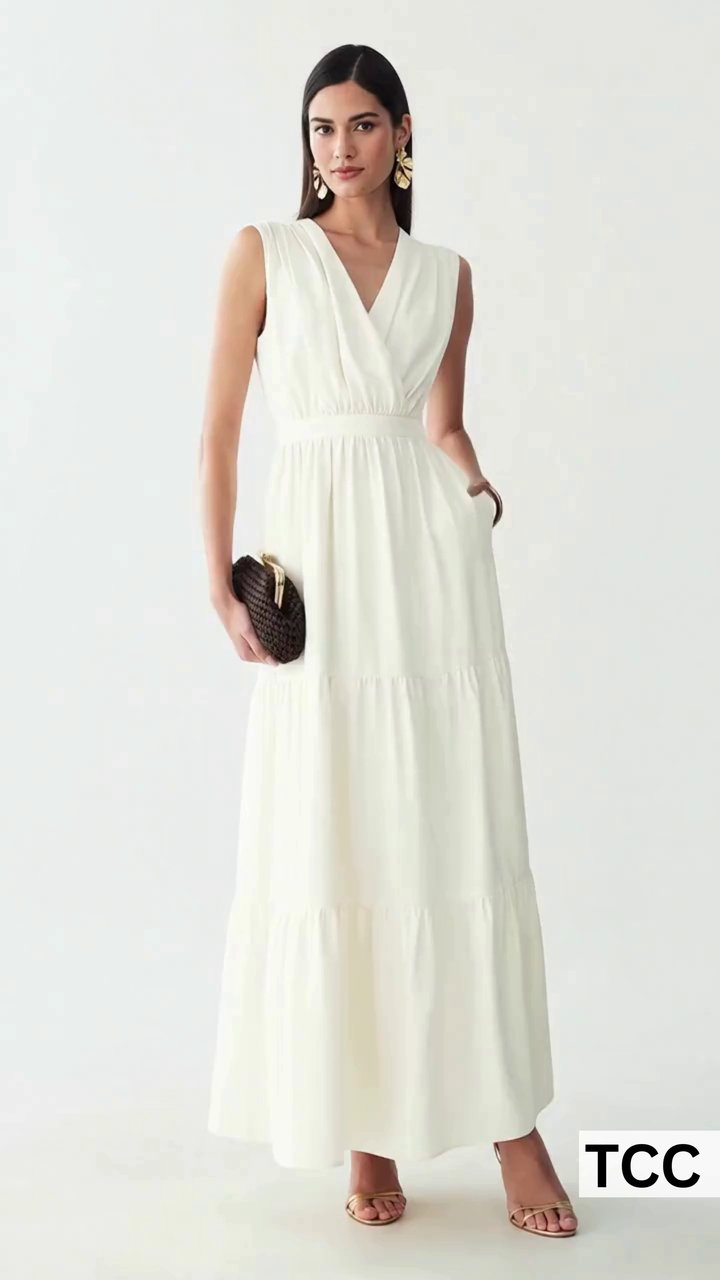
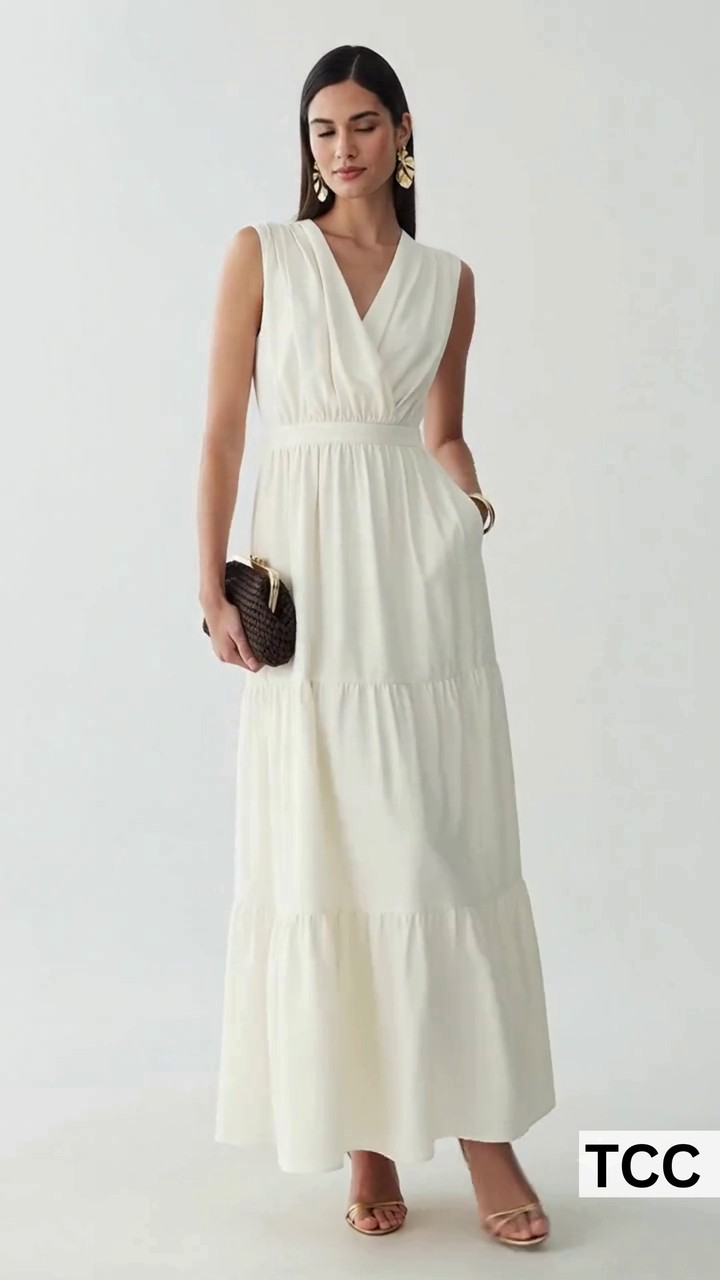
Add cache-busting and dress poster to prevent old image flash before video plays

Changed region(s): [[0.275, 0.0312, 0.825, 1.0], [0.275, 0.8125, 0.3056, 0.875]]

diff --git a/front-page.php b/front-page.php
@@ -1455,13 +1455,16 @@ body.has-floating-hero-video #tcc-floating-to-top {
         <?php
         $hero_video_url    = get_theme_mod( 'tcc_hero_video_url', '' );
         if ( empty( $hero_video_url ) ) {
-            if ( file_exists( get_template_directory() . '/assets/videos/hero-video.mp4' ) ) {
-                $hero_video_url = get_template_directory_uri() . '/assets/videos/hero-video.mp4';
+            $video_file = get_template_directory() . '/assets/videos/hero-video.mp4';
+            if ( file_exists( $video_file ) ) {
+                $hero_video_url = get_template_directory_uri() . '/assets/videos/hero-video.mp4?v=' . filemtime( $video_file );
             }
         }
         $hero_video_poster = get_theme_mod( 'tcc_hero_video_poster', '' );
         if ( empty( $hero_video_poster ) ) {
-            $hero_video_poster = get_template_directory_uri() . '/assets/images/hero-video-poster.jpg';
+            $poster_file = get_template_directory() . '/assets/images/dress-poster.jpg';
+            $poster_ver  = file_exists( $poster_file ) ? filemtime( $poster_file ) : time();
+            $hero_video_poster = get_template_directory_uri() . '/assets/images/dress-poster.jpg?v=' . $poster_ver;
         }
         $hero_video_brand  = get_theme_mod( 'tcc_hero_video_brand', 'GLOSSY' );
         $hero_video_link   = get_theme_mod( 'tcc_hero_video_link', home_url( '/category/trends-innovation/' ) );
@@ -1479,7 +1482,7 @@ body.has-floating-hero-video #tcc-floating-to-top {
                     <!-- The Floating Video Player (ONLY this element floats on scroll!) -->
                     <div class="gm-hero-floating-player" id="gmHeroFloatingPlayer">
                         <?php if ( ! empty( $hero_video_url ) ) : ?>
-                            <video id="gmHeroPortraitVideo" class="gm-hero-video-tag" playsinline autoplay muted loop poster="<?php echo esc_url( $hero_video_poster ); ?>">
+                            <video id="gmHeroPortraitVideo" class="gm-hero-video-tag" playsinline autoplay muted loop preload="auto" poster="<?php echo esc_url( $hero_video_poster ); ?>">
                                 <source src="<?php echo esc_url( $hero_video_url ); ?>" type="video/mp4">
                             </video>
                         <?php else : ?>
